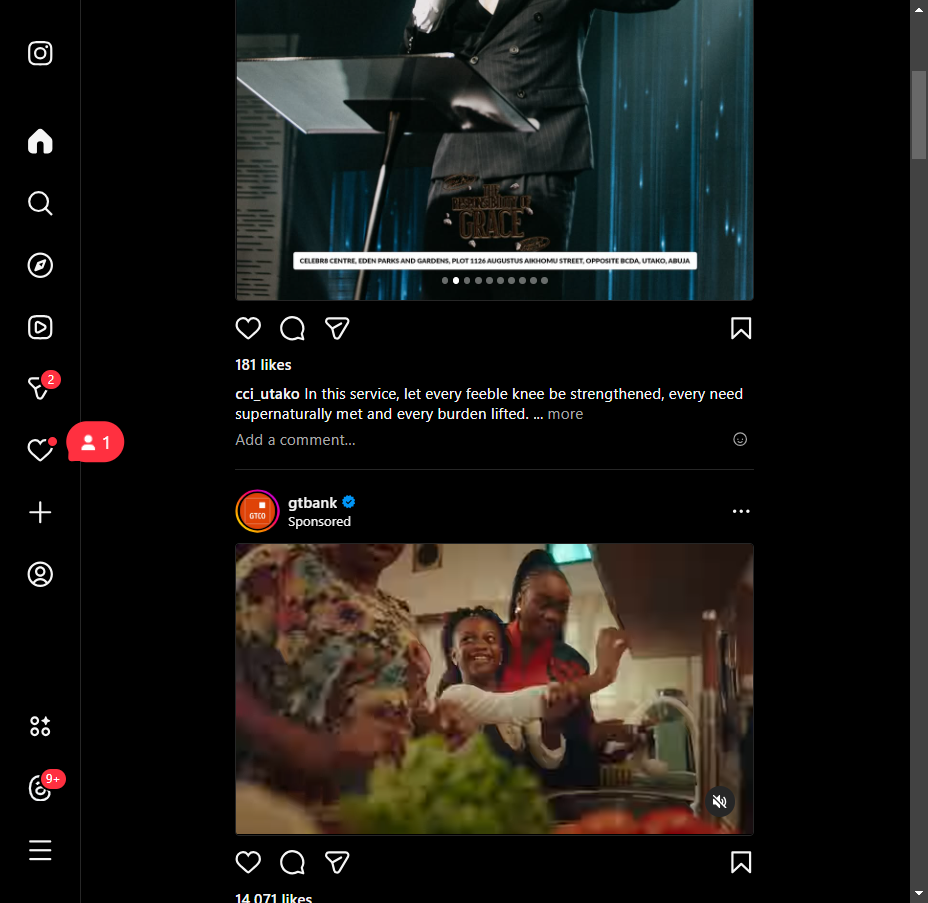
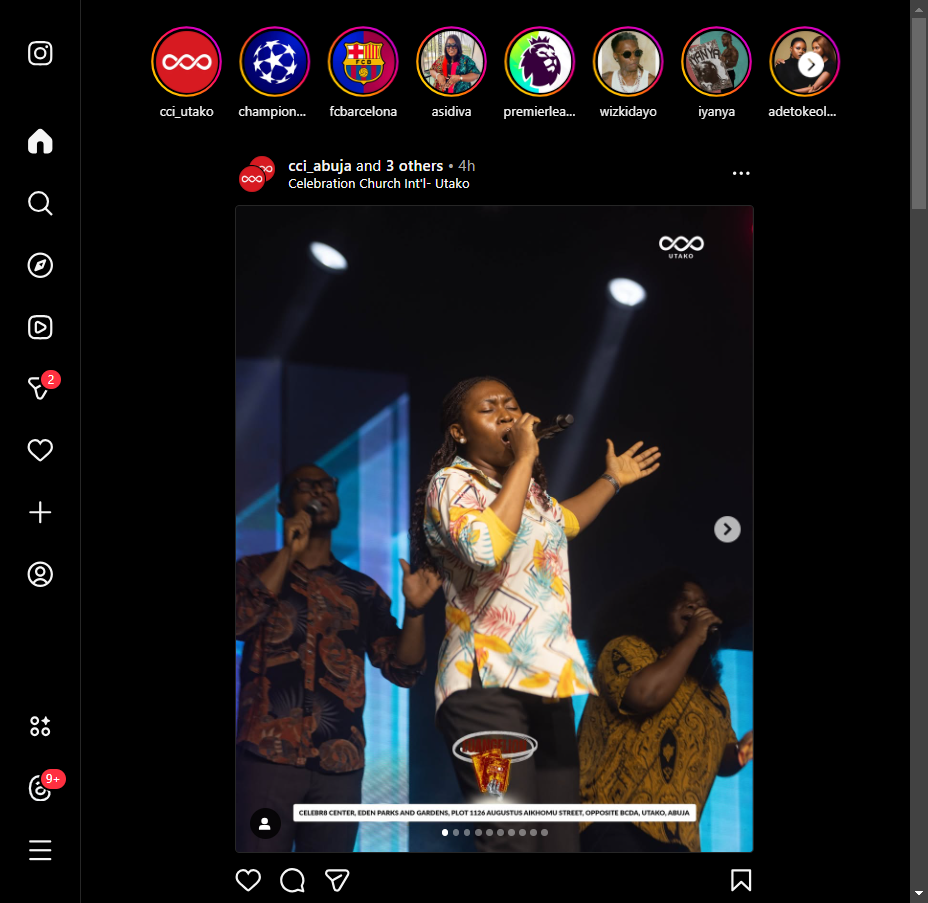
updates

diff --git a/src/client/Instagram.ts b/src/client/Instagram.ts
@@ -10,6 +10,8 @@ import { Instagram_cookiesExist, loadCookies, saveCookies } from "../utils";
 import { runAgent } from "../Agent";
 import { getInstagramCommentSchema } from "../Agent/schema";
 import RateLimitTracker from "../config/rateLimit";
+import fs from 'fs';
+import path from 'path';
 
 // Add stealth plugin to puppeteer
 puppeteer.use(StealthPlugin());
@@ -20,6 +22,11 @@ puppeteer.use(
     })
 );
 
+interface InstagramCredentials {
+    username: string;
+    password: string;
+}
+
 const delay = (ms: number) => new Promise(resolve => setTimeout(resolve, ms));
 
 // Initialize rate limiter with account creation date
@@ -28,7 +35,25 @@ const rateLimiter = new RateLimitTracker(new Date()); // You should replace this
 // Add a Set to track commented posts (outside of functions to persist between iterations)
 const commentedPosts = new Set<string>();
 
-async function runInstagram() {
+async function runInstagram(credentials?: InstagramCredentials) {
+    const username = credentials?.username || IGusername;
+    const password = credentials?.password || IGpassword;
+    
+    // Create cookies directory if it doesn't exist
+    const cookiesDir = "./cookies";
+    if (!fs.existsSync(cookiesDir)) {
+        fs.mkdirSync(cookiesDir);
+    }
+
+    // Use account-specific cookie file
+    const cookiesPath = path.join(cookiesDir, `instagram_${username}.json`);
+
+    // Delete any existing cookies for this account
+    if (fs.existsSync(cookiesPath)) {
+        fs.unlinkSync(cookiesPath);
+        logger.info(`Deleted existing cookies for account: ${username}`);
+    }
+
     const server = new Server({ port: 8000 });
     await server.listen();
     const proxyUrl = `http://localhost:8000`;
@@ -38,59 +63,37 @@ async function runInstagram() {
     });
 
     const page = await browser.newPage();
-    const cookiesPath = "./cookies/Instagramcookies.json";
 
-    const checkCookies = await Instagram_cookiesExist();
-    logger.info(`Checking cookies existence: ${checkCookies}`);
+    // Always perform fresh login with credentials
+    await loginWithCredentials(page, browser, username, password, cookiesPath);
 
-    if (checkCookies) {
-        const cookies = await loadCookies(cookiesPath);
-        await page.setCookie(...cookies);
-        logger.info('Cookies loaded and set on the page.');
-
-        // Navigate to Instagram to verify if cookies are valid
-        await page.goto("https://www.instagram.com/", { waitUntil: 'networkidle2' });
-
-        // Check if login was successful by verifying page content (e.g., user profile or feed)
-        const isLoggedIn = await page.$("a[href='/direct/inbox/']");
-        if (isLoggedIn) {
-            logger.info("Login verified with cookies.");
-        } else {
-            logger.warn("Cookies invalid or expired. Logging in again...");
-            await loginWithCredentials(page, browser);
-        }
-    } else {
-        // If no cookies are available, perform login with credentials
-        await loginWithCredentials(page, browser);
-    }
-
-    // Optionally take a screenshot after loading the page
-    await page.screenshot({ path: "logged_in.png" });
+    // Take a screenshot after loading the page
+    await page.screenshot({ path: `logged_in_${username}.png` });
 
     // Navigate to the Instagram homepage
     await page.goto("https://www.instagram.com/");
 
     // Continuously interact with posts without closing the browser
     while (true) {
-         await interactWithPosts(page);
-         logger.info("Iteration complete, waiting 30 seconds before refreshing...");
-         await delay(30000);
-         try {
-             await page.reload({ waitUntil: "networkidle2" });
-         } catch (e) {
-             logger.warn("Error reloading page, continuing iteration: " + e);
-         }
+        await interactWithPosts(page);
+        logger.info("Iteration complete, waiting 30 seconds before refreshing...");
+        await delay(30000);
+        try {
+            await page.reload({ waitUntil: "networkidle2" });
+        } catch (e) {
+            logger.warn("Error reloading page, continuing iteration: " + e);
+        }
     }
 }
 
-const loginWithCredentials = async (page: any, browser: Browser) => {
+const loginWithCredentials = async (page: any, browser: Browser, username: string, password: string, cookiesPath: string) => {
     try {
         await page.goto("https://www.instagram.com/accounts/login/");
         await page.waitForSelector('input[name="username"]');
 
         // Fill out the login form
-        await page.type('input[name="username"]', IGusername); // Replace with your username
-        await page.type('input[name="password"]', IGpassword); // Replace with your password
+        await page.type('input[name="username"]', username);
+        await page.type('input[name="password"]', password);
         await page.click('button[type="submit"]');
 
         // Wait for navigation after login
@@ -98,11 +101,11 @@ const loginWithCredentials = async (page: any, browser: Browser) => {
 
         // Save cookies after login
         const cookies = await browser.cookies();
-        // logger.info("Saving cookies after login...",cookies);
-        await saveCookies("./cookies/Instagramcookies.json", cookies);
+        await saveCookies(cookiesPath, cookies);
+        logger.info(`Saved new cookies for account: ${username}`);
     } catch (error) {
-        // logger.error("Error logging in with credentials:", error);
-        logger.error("Error logging in with credentials:");
+        logger.error(`Error logging in with credentials for account ${username}`);
+        throw error;
     }
 }
 

diff --git a/src/index.ts b/src/index.ts
@@ -3,29 +3,47 @@ import logger from "./config/logger";
 import { shutdown } from "./services";
 import app from "./app";
 import { initAgent } from "./Agent/index";
+import runInstagram from "./client/Instagram";
 
 dotenv.config();
 
 async function startServer() {
   try {
     await initAgent();
+
+    // Get command line arguments
+    const args = process.argv.slice(2);
+    
+    // Check if Instagram credentials are provided
+    if (args.length >= 2 && args[0] === '--instagram') {
+      const [_, username, password] = args;
+      if (!username || !password) {
+        logger.error("Please provide both username and password");
+        process.exit(1);
+      }
+      
+      logger.info(`Starting Instagram bot with account: ${username}`);
+      await runInstagram({ username, password });
+    } else {
+      // Start the web server
+      const server = app.listen(process.env.PORT || 3000, () => {
+        logger.info(`Server is running on port ${process.env.PORT || 3000}`);
+      });
+
+      process.on("SIGTERM", () => {
+        logger.info("Received SIGTERM signal.");
+        shutdown(server);
+      });
+      
+      process.on("SIGINT", () => {
+        logger.info("Received SIGINT signal.");
+        shutdown(server);
+      });
+    }
   } catch (err) {
-    logger.error("Error during agent initialization:", err);
+    logger.error("Error during initialization:", err);
     process.exit(1);
   }
-
-  const server = app.listen(process.env.PORT || 3000, () => {
-    logger.info(`Server is running on port ${process.env.PORT || 3000}`);
-  });
-
-  process.on("SIGTERM", () => {
-    logger.info("Received SIGTERM signal.");
-    shutdown(server);
-  });
-  process.on("SIGINT", () => {
-    logger.info("Received SIGINT signal.");
-    shutdown(server);
-  });
 }
 
 startServer();

diff --git a/src/samples/instagram_posts.ts b/src/samples/instagram_posts.ts
@@ -144,7 +144,7 @@ Swipe to see how she did it and learn how AI can help YOUR business!
 Ready to transform your business with AI? Drop a "🤖" below!
 
 #SmallBusiness #AI #BusinessInnovation #SuccessStory #Entrepreneurship #DigitalTransformation #AIStrategy`,
-    imageDescription: 'Carousel of infographics and photos showing the bakery's transformation, including before/after metrics and implementation steps',
+    imageDescription: "Carousel of infographics and photos showing the bakery\\'s transformation, including before/after metrics and implementation steps",
     engagement: {
       likes: 4521,
       comments: 567,
